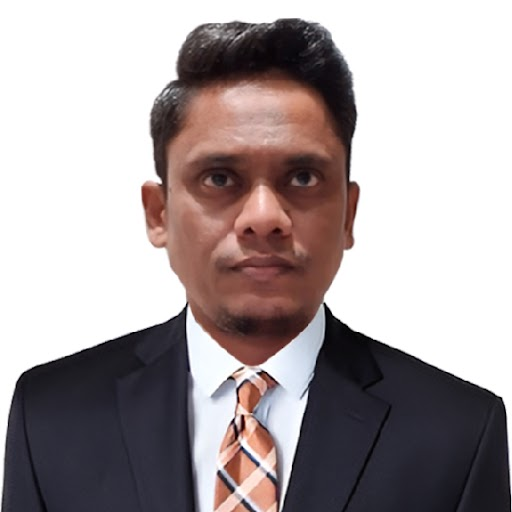
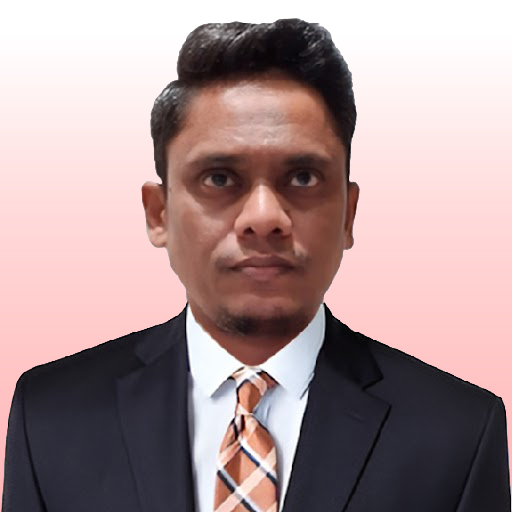
Update profile images for Aishah and Khairul

Changed region(s): [[0.625, 0.2812, 1.0, 0.9375], [0.0, 0.2812, 0.375, 1.0], [0.6562, 0.0938, 0.6875, 0.125]]

diff --git a/app/data/management.ts b/app/data/management.ts
@@ -38,7 +38,7 @@ export const managementData: ManagementProfile[] = [
     id: "aishah-mohd-suhaimi",
     name: "Aishah Mohd Suhaimi",
     title: "Board of Director",
-    image: "/management/Aishah Mohd Suhaimi.jpeg",
+    image: "/management/Aishah Mohd Suhaimi.jpg",
     imagePosition: "center 30%",
     linkedin: "#",
     bio: [
@@ -65,7 +65,7 @@ export const managementData: ManagementProfile[] = [
     id: "khairul-azam-ahmad",
     name: "Khairul Azam Ahmad",
     title: "Cybersecurity Advisor",
-    image: "/management/khairul-Copy.png",
+    image: "/management/khairul.jpg",
     linkedin: "#",
     bio: [
       "Khairul Azam is a seasoned cybersecurity and digital resilience leader with over 25 years of deep, multidimensional experience across cybersecurity strategy, threat operations, and national-level security programs. His leadership philosophy is rooted in a powerful belief: today's digital resilience secures tomorrow's freedoms. This forward-thinking approach has shaped his career and continues to guide his contributions to Ssquad Global.",
